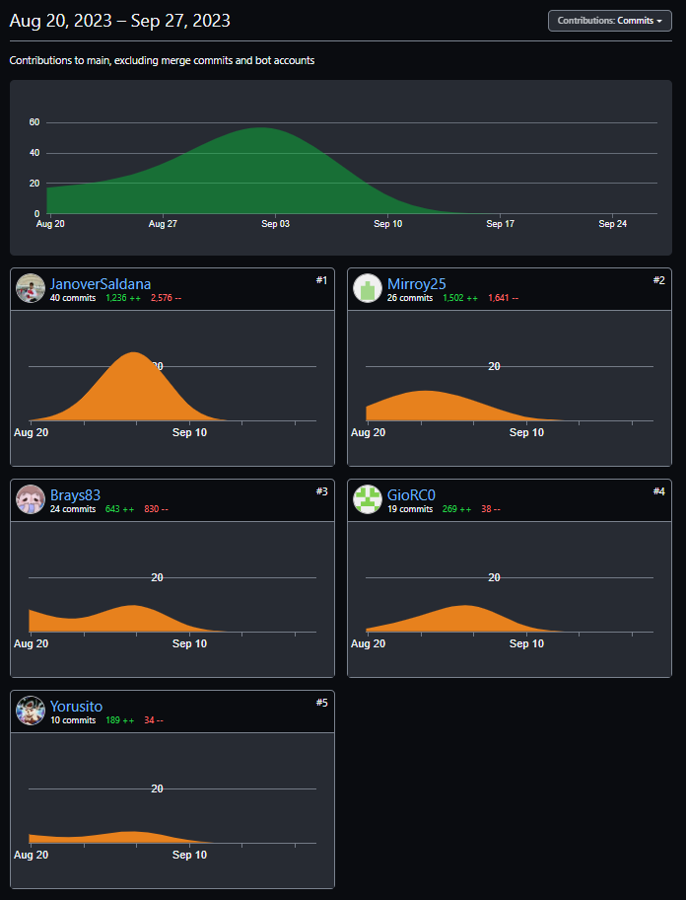
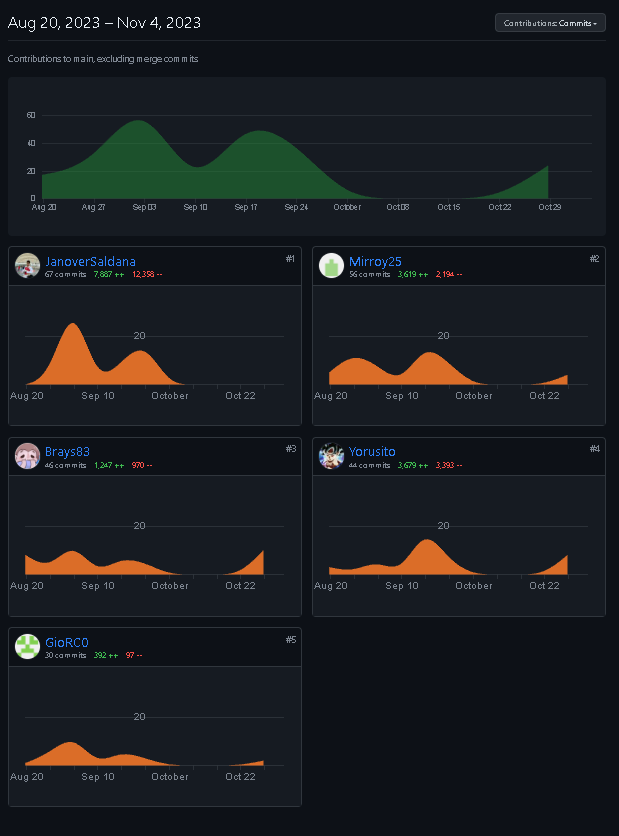
doc(chapter-v): project report collaboration insights added

Changed region(s): [[0.0, 0.1244, 0.9822, 0.9952], [0.0, 0.0, 0.9822, 0.0933], [0.3683, 0.9019, 0.4297, 0.933]]

diff --git a/README.md b/README.md
@@ -69,9 +69,9 @@
 
 
 ![](assets/img/colaboracion/colaboration-commit.png)
-![](assets/img/colaboracion/git-clone-tp.png)
-![](assets/img/colaboracion/ramas-tp.png)
-![](assets/img/colaboracion/networkinforme.PNG)
+![](assets/img/colaboracion/git-clone-tp.PNG)
+![](assets/img/colaboracion/ramas-tp.PNG)
+![](assets/img/colaboracion/pulse.PNG)
 
 Link del repositorio:[https://github.com/orgs/LogicVersee/repositories](https://github.com/orgs/LogicVersee/repositories)
 <br>Link del repositorio-Informe:[https://github.com/LogicVersee/TecHelp-InformeDelProyecto](https://github.com/LogicVersee/TecHelp-InformeDelProyecto)
